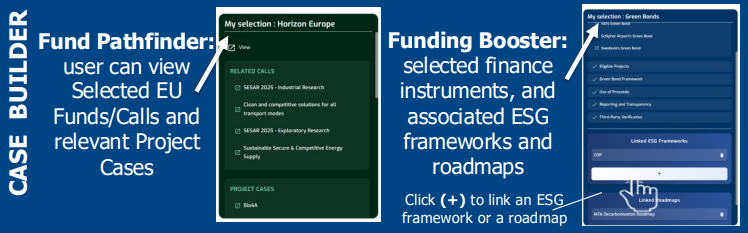
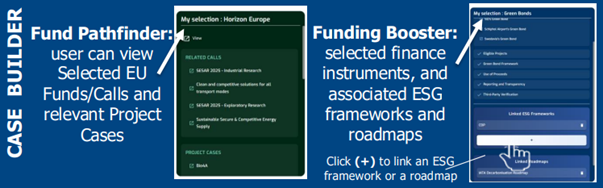
Built site for gh-pages

diff --git a/decarbfin/index.html b/decarbfin/index.html
@@ -355,7 +355,7 @@ ul.task-list li input[type="checkbox"] {
   <li><a href="#dictionary-of-terms" id="toc-dictionary-of-terms" class="nav-link" data-scroll-target="#dictionary-of-terms"><span class="header-section-number">8.11</span> Dictionary of terms</a></li>
   <li><a href="#my-private-funding-and-my-sustainable-finance-instruments" id="toc-my-private-funding-and-my-sustainable-finance-instruments" class="nav-link" data-scroll-target="#my-private-funding-and-my-sustainable-finance-instruments"><span class="header-section-number">8.12</span> My “private” funding and my Sustainable Finance instruments</a></li>
   <li><a href="#essentials" id="toc-essentials" class="nav-link" data-scroll-target="#essentials"><span class="header-section-number">8.13</span> Essentials</a></li>
-  <li><a href="#funding-basket" id="toc-funding-basket" class="nav-link" data-scroll-target="#funding-basket"><span class="header-section-number">8.14</span> Funding basket</a></li>
+  <li><a href="#my-selection" id="toc-my-selection" class="nav-link" data-scroll-target="#my-selection"><span class="header-section-number">8.14</span> My selection</a></li>
   <li><a href="#flynance-dashboard" id="toc-flynance-dashboard" class="nav-link" data-scroll-target="#flynance-dashboard"><span class="header-section-number">8.15</span> FLYnance! dashboard</a></li>
   <li><a href="#how-to-use-the-flynance-dashboard" id="toc-how-to-use-the-flynance-dashboard" class="nav-link" data-scroll-target="#how-to-use-the-flynance-dashboard"><span class="header-section-number">8.16</span> How to use the FLYnance! dashboard</a></li>
   <li><a href="#flynance-references" id="toc-flynance-references" class="nav-link" data-scroll-target="#flynance-references"><span class="header-section-number">8.17</span> FLYnance! References</a></li>
@@ -808,23 +808,38 @@ ul.task-list li input[type="checkbox"] {
 <hr>
 </section>
 </section>
-<section id="funding-basket" class="level2" data-number="8.14">
-<h2 data-number="8.14" class="anchored" data-anchor-id="funding-basket"><span class="header-section-number">8.14</span> Funding basket</h2>
-<p><strong>Funding Basket:</strong> a space to temporarily store selected information from Fund Pathfinder and Funding Booster and export to a word format.</p>
+<section id="my-selection" class="level2" data-number="8.14">
+<h2 data-number="8.14" class="anchored" data-anchor-id="my-selection"><span class="header-section-number">8.14</span> My selection</h2>
+<p><strong>Funding selection:</strong> a space to temporarily store selected information from Fund Pathfinder and Funding Booster and export to a word format.&nbsp;</p>
+<ul>
+<li>Select an element&nbsp;</li>
+</ul>
 <div class="quarto-figure quarto-figure-center">
 <figure class="figure">
-<p><img src="images/basket_1.png" class="img-fluid quarto-figure quarto-figure-center figure-img"></p>
+<p><img src="images/selection_1.png" class="quarto-figure quarto-figure-center figure-img" width="150" height="58"></p>
+</figure>
+</div>
+<ul>
+<li>Access My selection area</li>
+</ul>
+<div class="quarto-figure quarto-figure-center">
+<figure class="figure">
+<p><img src="images/selection_2.png" class="img-fluid quarto-figure quarto-figure-center figure-img" width="150"></p>
 </figure>
 </div>
 <hr>
 <p><strong>Default</strong></p>
-<p>The basket view consists of a <strong>Fund Pathfinder (EU funding)</strong> and <strong>Funding Booster (private funding)</strong> space: the user can select/add, view, and remove all the funds/calls and financial instruments previously selected. They can also add, view and remove ESG frameworks and Roadmaps.</p>
+<p>The selection view consists of a&nbsp;<strong>Fund Pathfinder (EU funding)</strong>&nbsp;and&nbsp;<strong>Funding Booster (private funding)</strong>&nbsp;space: the user can select/add, view, and remove all the funds/calls and financial instruments previously selected. They can also add, view and remove ESG frameworks and Roadmaps.</p>
 <div class="quarto-figure quarto-figure-center">
 <figure class="figure">
-<p><img src="images/basket_2.png" class="img-fluid quarto-figure quarto-figure-center figure-img"></p>
+<p><img src="images/selection_3.png" class="img-fluid quarto-figure quarto-figure-center figure-img"></p>
 </figure>
 </div>
-<p><img src="images/basket_3.png" class="img-fluid"></p>
+<div class="quarto-figure quarto-figure-center">
+<figure class="figure">
+<p><img src="images/basket_3.png" class="img-fluid quarto-figure quarto-figure-center figure-img"></p>
+</figure>
+</div>
 <hr>
 <p><strong>Output</strong></p>
 <ul>

diff --git a/fg_functionalities.html b/fg_functionalities.html
@@ -412,7 +412,7 @@ ul.task-list li input[type="checkbox"] {
 <li><p>Landing Page Design &amp; Structure</p></li>
 <li><p>Bluebook platform and downloadable versions</p></li>
 <li><p>Fund Pathfinder: including Funds and Calls, EU funded projects</p></li>
-<li><p>Funding Basket: add, select, remove and link essentials to build an EU &amp; Private funding business case</p></li>
+<li><p>My selection: add, select, remove and link essentials to build an EU &amp; Private funding business case</p></li>
 <li><p>Funding Booster including Financial Instruments, Use Cases, ESG Frameworks and Decarbonisation Roadmaps</p></li>
 <li><p>Flynance! Dashboard with trends &amp; metrics</p></li>
 </ul>

diff --git a/index.html b/index.html
@@ -7,7 +7,7 @@
 <meta name="viewport" content="width=device-width, initial-scale=1.0, user-scalable=yes">
 
 <meta name="author" content="EUROCONTROL/ASU">
-<meta name="dcterms.date" content="2026-04-09">
+<meta name="dcterms.date" content="2026-04-10">
 
 <title>FlyingGreen User Manual</title>
 <style>
@@ -371,7 +371,7 @@ ul.task-list li input[type="checkbox"] {
     <div>
     <div class="quarto-title-meta-heading">Published</div>
     <div class="quarto-title-meta-contents">
-      <p class="date">April 9, 2026</p>
+      <p class="date">April 10, 2026</p>
     </div>
   </div>
   
